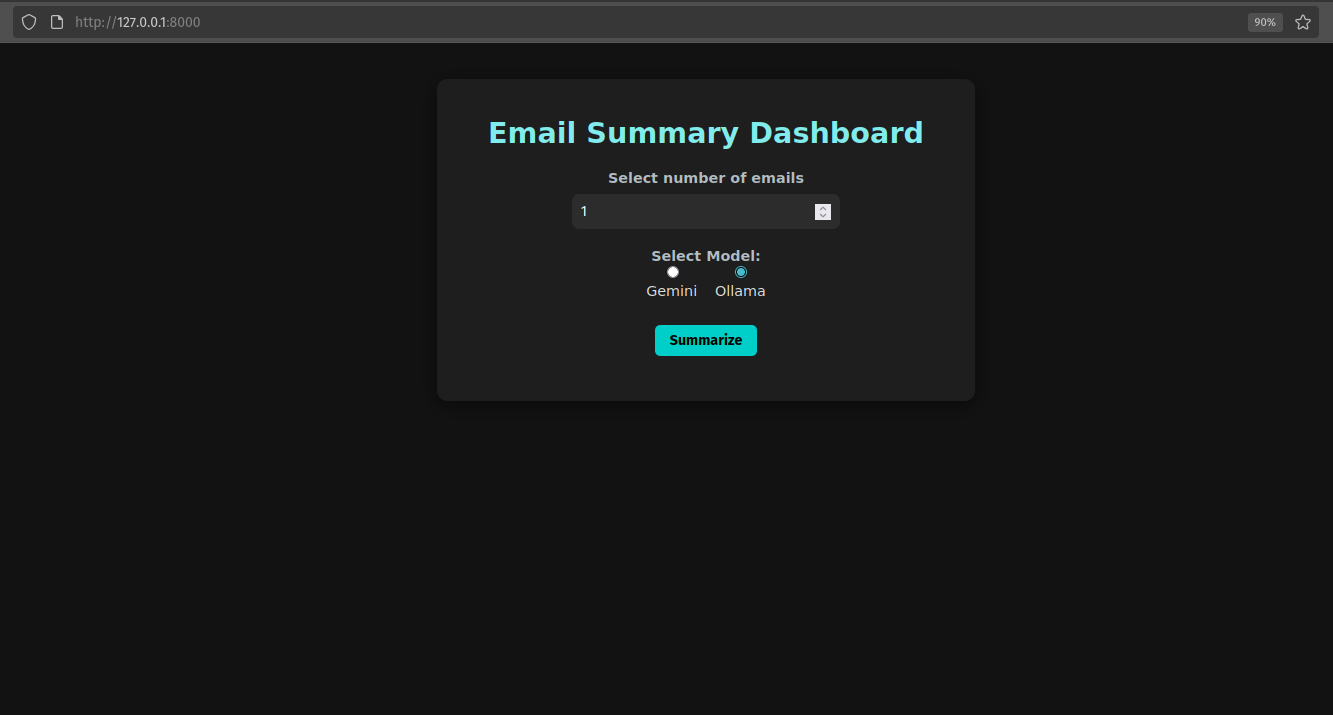
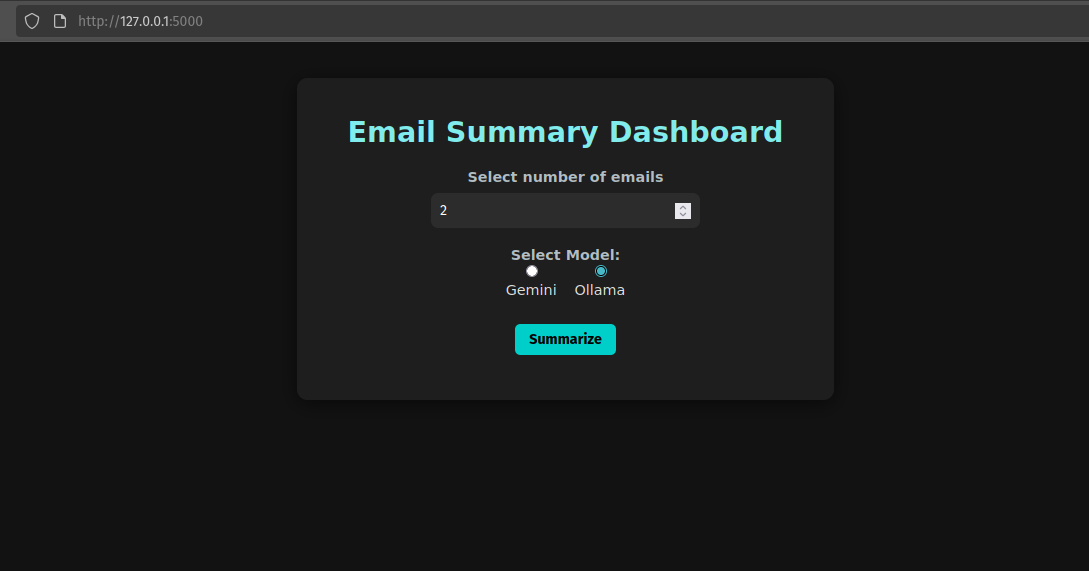
added dockerfile

diff --git a/app/static/index.html b/app/static/index.html
@@ -180,7 +180,7 @@
       // const url = model === "gemini" 
       //   ? "http://127.0.0.1:8000/api/gemini?number_of_emails=1&type=UNSEEN" 
       //   : "http://127.0.0.1:8000/api/ollama?number_of_emails=1&type=UNSEEN";
-      const url = `http://127.0.0.1:8000/api/${model}?number_of_emails=1&type=UNSEEN`
+      const url = `http://127.0.0.1:5000/api/${model}?number_of_emails=1&type=UNSEEN`
 
       try {
         for (let i = 0; i < number; i++) {

diff --git a/app/services/lllm.py b/app/services/lllm.py
@@ -1,11 +1,22 @@
 import requests, json
 from app.core.config import settings
+import os
 
 
 
 
 MODEL = 'llama3.2:1b' 
 # MODEL = 'gemma3:1b'
+
+
+# if os.getenv("RUNNING_IN_DOCKER") == "true":
+#     URL = "http://host.docker.internal:11434/api/generate"
+# else:
+#     URL = "http://localhost:11434/api/generate"
+
+URL = "http://localhost:11434/api/generate"
+
+
 system_prompt = (
     """
 Extract the email summary and respond only with a json object in this format:
@@ -21,7 +32,7 @@ Extract the email summary and respond only with a json object in this format:
 
 
 def gen_ollama(prompt):
-    url = "http://localhost:11434/api/generate"
+    url = URL
     payload = {
         "model": MODEL,
         "prompt": prompt,
@@ -38,7 +49,7 @@ def gen_ollama(prompt):
         raise Exception(f"Failed to get response: {response.status_code}, {response.text}")
 
 def gen_ollama_stream(prompt):
-    url = "http://localhost:11434/api/generate" 
+    url = URL
     payload = {
         "model": MODEL,
         "prompt": system_prompt + prompt,

diff --git a/app/main.py b/app/main.py
@@ -15,8 +15,15 @@ app.mount("/", StaticFiles(directory="app/static", html=True), name="static")
 
 app.add_middleware(
     CORSMiddleware,
-    allow_origins=["http://localhost", "http://localhost:8000"],  # Allows all origins
+    allow_origins=[
+        "http://localhost",
+        "http://localhost:5000",
+        "http://127.0.0.1",
+        "http://127.0.0.1:5000",
+        "http://localhost:8000",
+        "http://127.0.0.1:8000",
+    ],
     allow_credentials=True,
-    allow_methods=["*"],  # Allows all methods
-    allow_headers=["*"],  # Allows all headers
+    allow_methods=["*"],
+    allow_headers=["*"],
 )

diff --git a/app/services/app.py b/app/services/app.py
@@ -1,10 +1,9 @@
 from app.services.imap import get_email_body, estimate_tokens
-from app.services.lllm import gen_ollama_stream, gen_ollama
+from app.services.lllm import gen_ollama_stream
 from app.services.gemini import gen_gemini
 from app.core.config import settings
 import json
 import re
-import json
 
 
 

diff --git a/run.py b/run.py
@@ -2,4 +2,4 @@
 import uvicorn
 
 if __name__ == "__main__":
-    uvicorn.run("app.main:app", host="127.0.0.1", port=8000, reload=True)
+    uvicorn.run("app.main:app", host="0.0.0.0", port=5000, reload=True)

diff --git a/app/api/router.py b/app/api/router.py
@@ -1,6 +1,5 @@
 # app/api/v1/endpoints/example.py
 from fastapi import APIRouter
-import re, json, time
 
 router = APIRouter()
 

diff --git a/README.md b/README.md
@@ -28,9 +28,8 @@ GEMINI_API_KEY = '<your_google_gemini_api_key>'
 
 ℹ The email password should be an **App Password**, which you can generate in your email provider’s security settings (e.g., [Google App Passwords](https://myaccount.google.com/apppasswords)).
 
-🧠 The Gemini API key is **free** and can be generated from [Google AI Studio](https://aistudio.google.com/app/apikey).
+🧠 The Gemini API key is **free** and can be generated from [Google AI Studio](https://aistudio.google.com/app/apikey). It is **not** mandatory!
 
-Either the Gemini API key must be set in your environment variables (.env file) or Ollama must be installed and running. The recommended model is *llama 3.2:latest*.
 
 ---
 
@@ -60,10 +59,30 @@ Either the Gemini API key must be set in your environment variables (.env file) 
 5. **Access the dashboard at:**
 
    ```
-   http://127.0.0.1:8000/
+   http://127.0.0.1:5000/
    ```
 
 ---
+
+## 🚀 Running with Docker
+
+### 
+
+1. **Clone this repository:**
+
+   ```bash
+   git clone https://github.com/vishruth555/mailBrief.git
+   cd mailBrief
+   ```
+
+2. **📦 Build the run Docker Image**
+
+   ```bash
+   docker build -t mailbrief .
+   docker run --network=host -d mailbrief
+   ```
+
+
 
 ## Notes
 
